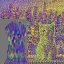
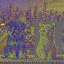
improved mask

diff --git a/SLD-main/utils/latents.py b/SLD-main/utils/latents.py
@@ -363,13 +363,13 @@ def inverse_warp_with_transformation_matrix_marco(A, roi_A, B, seg_map, transfor
         # Process each channel separately
         for c in range(B.shape[2]):
             latent_2D = B[i, 0, c].cpu().numpy().astype(np.float32)  # Get single channel and ensure float32
-            latent_2D, new_bbox = apply_affine_transform(latent_2D, roi_A, transform_matrix)
+            latent_2D, new_bbox = apply_affine_transform(latent_2D, roi_A, transform_matrix, is_mask=False)
             B[i, 0, c] = torch.from_numpy(latent_2D.astype(np.float32))  # Convert back to float
 
     # Process segmentation mask
     mask_2D = seg_map.astype(np.float32)  # Ensure float32
-    mask_2D, _ = apply_affine_transform(mask_2D, roi_A, transform_matrix)  # Apply same transform
-    new_mask = torch.from_numpy(mask_2D).to(A.device).bool()  # Convert back to tensor and ensure boolean
+    mask_2D, _ = apply_affine_transform(mask_2D, roi_A, transform_matrix, is_mask=True)  # Apply same transform
+    new_mask = torch.from_numpy(mask_2D > 0.5).to(A.device).bool()  # Convert back to tensor and ensure boolean with higher threshold
 
     # now apply the new_mask to the new_latents only inside the new_bbox
     M2 = np.ones((64, 64), dtype=np.float32)
@@ -647,7 +647,7 @@ def compose_latents_with_alignment(
        
         # define transformation
         if obj_name == "dog #1":
-            transform_matrix = define_affine_transformation(rotation_angle = 0.0, translation = (0.0, 0.0), scaling = (1.0, 1.5))
+            transform_matrix = define_affine_transformation(rotation_angle = 0.0, translation = (0.0, 10.0), scaling = (0.7, 0.7))
         else:
             transform_matrix = define_affine_transformation(rotation_angle = 0.0, translation = (0.0, 0.0), scaling = (1.0, 1.0))
 

diff --git a/SLD-main/utils/affine_transformation_marco.py b/SLD-main/utils/affine_transformation_marco.py
@@ -31,7 +31,7 @@ def define_affine_transformation(rotation_angle, translation, scaling):
 
 
 
-def apply_affine_transform(image, bbox, M_affine):
+def apply_affine_transform(image, bbox, M_affine, is_mask=False):
     """
     Applies a 3x3 affine transformation matrix to a specified region of interest (ROI) within an image.
 
@@ -123,7 +123,10 @@ def apply_affine_transform(image, bbox, M_affine):
     #########################################################
 
     # Remove the original ROI from the image
-    image[y_min:y_max, x_min:x_max] = np.random.normal(loc=0.0, scale=1.0, size=image[y_min:y_max, x_min:x_max].shape)
+    if not is_mask:
+        image[y_min:y_max, x_min:x_max] = np.random.normal(loc=0.0, scale=1.0, size=image[y_min:y_max, x_min:x_max].shape)
+    else: 
+        image[y_min:y_max, x_min:x_max] = np.zeros_like(image[y_min:y_max, x_min:x_max])
 
     # Combine the transformed image with the original image
     combined_image = image.copy()
@@ -154,7 +157,7 @@ def main():
     M_affine = define_affine_transformation(angle, translation, scale)
 
     # Apply the affine transformation
-    transformed_image, _ = apply_affine_transform(image, bbox, M_affine)
+    transformed_image, _ = apply_affine_transform(image, bbox, M_affine, is_mask=True)
 
     # Debug plot to visualize transformed image with the old bounding box
     fig, ax = plt.subplots(figsize=(6, 6))
